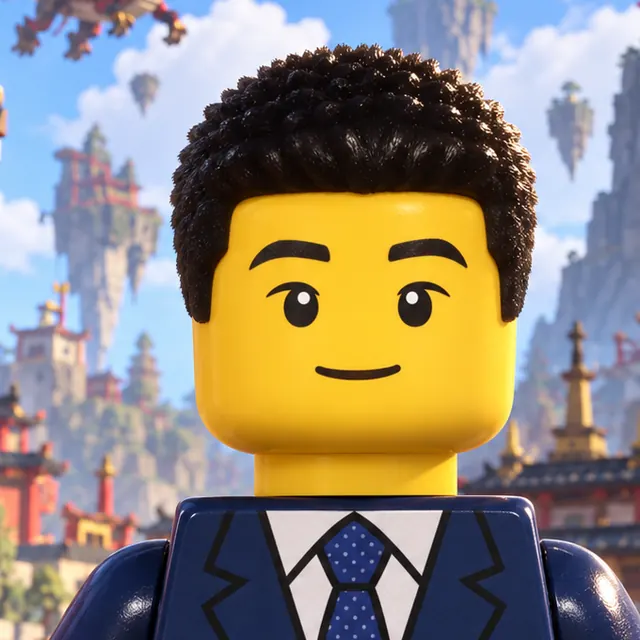
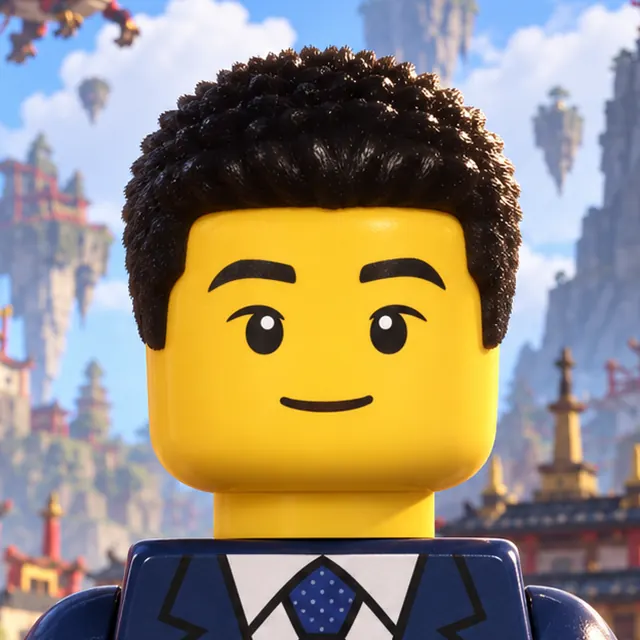
Hero links fit on one line (34px slots, 13.5px labels, tighter gaps: 587px inside the 600px column, was 643px and X wrapped below ~853px viewports); LEGO portrait re-cropped centered on the head (crop box 302,152,926,776 of the upload, still clear of the mountain lettering)
Claude-Session: https://claude.ai/code/session_01JZwpC5GSqmN2G7rrKgt5RW

diff --git a/assets/css/ui/hero.css b/assets/css/ui/hero.css
@@ -78,15 +78,16 @@ html.is-game .hero__class { text-shadow: 0 1px 2px rgba(0, 0, 0, 0.9), 0 0 12px 
 html.is-game .hero__role { font-size: 17.5px; line-height: 1.55; }
 
 /* ---------------------------------------------------------------- skill slots (links 1-5) */
-html.is-game .hero__links { gap: 12px 20px; margin-top: 20px; }
-/* the five slots fit on one line on a desktop: they may run a little past the 600px text column */
-html.is-game .scene--hero .hero__links { width: max-content; max-width: calc(100vw - 160px); }
+/* compact enough that all five fit on one line inside the 600px text column (~590px); where the viewport has room
+   the row may also run a little past it, so a wider font fallback still does not wrap */
+html.is-game .hero__links { --slot: 34px; gap: 12px 14px; margin-top: 20px; }
+html.is-game .scene--hero .hero__links { width: max-content; max-width: max(100%, calc(100vw - 160px)); }
 html.is-game .hero__links a {
-  display: grid; grid-template-columns: 36px auto; grid-template-rows: 36px auto; column-gap: 10px; row-gap: 4px; align-items: center;
-  font: 500 14px/1.2 var(--sans); color: var(--ink-2); text-shadow: 0 1px 8px rgba(0, 0, 0, 0.7);
+  display: grid; grid-template-columns: var(--slot) auto; grid-template-rows: var(--slot) auto; column-gap: 8px; row-gap: 4px; align-items: center;
+  font: 500 13.5px/1.2 var(--sans); color: var(--ink-2); text-shadow: 0 1px 8px rgba(0, 0, 0, 0.7);
 }
 html.is-game .hero__links a::before {
-  content: ''; grid-area: 1 / 1; width: 36px; height: 36px; border-radius: 3px;
+  content: ''; grid-area: 1 / 1; width: var(--slot); height: var(--slot); border-radius: 3px;
   background: linear-gradient(180deg, rgba(34, 64, 110, 0.92), rgba(15, 29, 51, 0.95));
   box-shadow: 0 0 0 1px var(--ucsd-navy-3), 0 0 0 2px var(--gold-a45), inset 0 1px 0 rgba(255, 255, 255, 0.12), inset 0 -3px 0 rgba(0, 0, 0, 0.3);
   transition: box-shadow var(--t-ui), transform 120ms var(--ease);
@@ -198,10 +199,10 @@ html.rm .press-start { animation: none; }
   .hero__blocks { right: -20px; }
   html.is-game .hero__class { font-size: 14px; margin-bottom: 10px; }
   html.is-game .hero__role { font-size: 16px; }
-  html.is-game .hero__links { display: grid; grid-template-columns: 1fr 1fr; gap: 10px 12px; margin-top: 16px; }
+  html.is-game .hero__links { --slot: 36px; display: grid; grid-template-columns: 1fr 1fr; gap: 10px 12px; margin-top: 16px; }
   html.is-game .scene--hero .hero__links { width: auto; max-width: none; }
   html.is-game .scene--hero .hero__links li:first-child { grid-column: 1 / -1; }
-  html.is-game .hero__links a { grid-template-rows: 36px; font-size: 13px; min-height: 44px; }
+  html.is-game .hero__links a { grid-template-rows: var(--slot); column-gap: 10px; font-size: 13px; min-height: 44px; }
   html.is-game .hero__links li { min-width: 0; }
   .slot-key { display: none; }
   .title-menu { width: 100%; min-width: 0; margin-top: 18px; padding: 6px 14px 6px 40px; }

diff --git a/docs/dev/HANDOFF.md b/docs/dev/HANDOFF.md
@@ -55,8 +55,9 @@ HTML, readable with no JS / no WebGL / Reviewer mode) layered over a persistent 
 
 ## Portrait swap (minifigure face)
 - A lone click / tap on `#portrait` (no second one within `DOUBLE_MS` = 350 ms, so it never fires on a double-click or
-  the 5-click voxel run) builds the minifigure version `assets/img/portrait-lego.webp` (640x640 crop of the user's
-  LEGO portrait, WebP q78) out of 5x5 studded bricks pressed in row by row from the bottom; the next lone click pops
+  the 5-click voxel run) builds the minifigure version `assets/img/portrait-lego.webp` (the user's LEGO portrait,
+  crop box (302,152,926,776) of the 1254px upload in commit e2e2f62: centered on the head, left of the "NINJAGO" text
+  on the mountain; 640x640 WebP q78) out of 5x5 studded bricks pressed in row by row from the bottom; the next lone click pops
   them off from the top and the photo is back. Code: `assets/js/site/portrait-swap.js` (wired from `eggs-dom.js`,
   which counts the clicks: 1 = swap, 2 = flip, 5 = voxel; any click lands a running swap at once), CSS at the end of
   `assets/css/ui/about.css`, `sfx('snap')` per row. The `<img>` src / alt and the button's aria-label follow the face,
